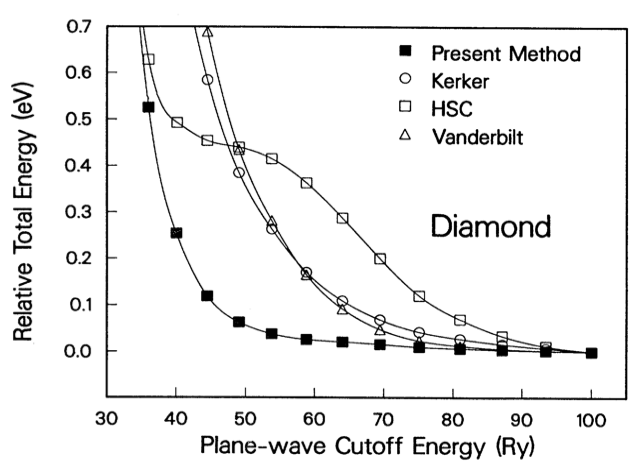
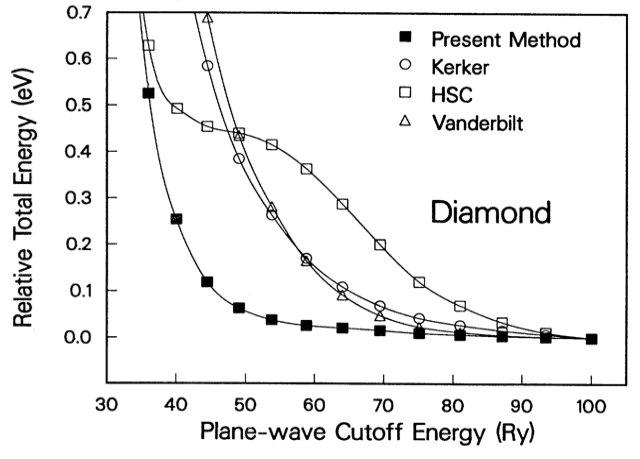
Do Troullier.tex

diff --git a/NCPP/Troullier.tex b/NCPP/Troullier.tex
@@ -26,6 +26,12 @@ and that for K and B pure nonlocal pesudopotential will be
 	\int_{0}^{\infty} \Phi_{l} (r) V_l^\text{NL} (r) J_l (\abs{q' r}) r^2 \, dr.
 \end{multline}
 
+
+
+
+
+
+
 \citeauthor{Troullier:1991ey} improved Kerker's method \cite{Kerker:1980cs} by imposing more
 terms in $p(r)$:
 \begin{equation}
@@ -48,21 +54,21 @@ then the solution of Kohn--Sham equation is uniquely defined by the
 value of $\mathcal{R}(r_0)$ and it's derivate $\mathcal{R}'(r_0)$. Combine
 these $2$ factors, the solution is uniquely defined by its  logarithmic
 derivative
-\begin{align}\label{eq:ld}
-	\frac{ d }{ dr } \ln \mathcal{R}_l (r, \varepsilon) \bigg|_{r = r_0}
-  &= \frac{ 1 }{ \mathcal{R}_l (r, \varepsilon) }
-  \frac{ d }{ dr } \mathcal{R}_l (r, \varepsilon) \bigg|_{r = r_0}, \\
-  \frac{ d }{ dr } \ln R_l (r, \epsilon) \bigg|_{r = r_0}
-  &= \frac{ 1 }{ R_l (r, \epsilon) }
-  \frac{ d }{ dr } R_l (r, \epsilon) \bigg|_{r = r_0}.
-\end{align}
+\begin{equation}\label{eq:ld}
+	\frac{ d }{ dr } \ln \psi_l (r, E) \bigg|_{r = r_0}
+	= \frac{ 1 }{ \psi_l (r, E) }
+	\frac{ d }{ dr } \psi_l (r, E) \bigg|_{r = r_0},
+\end{equation}
+where $\psi = R(r)$, the pseduo-radial-wave-function, or
+$\psi = \mathcal{R}$, the all-electron wave-function.
 
 Since Friedel sum rule,\cite{Topp:1973cp}
-\begin{equation}
-	- 2\pi \bigg[ \big(r \mathcal{R}_l(r) \big) ^ 2 \frac{ d }{ d\varepsilon } \frac{ d }{ dr } \ln \mathcal{R}_l(r) \bigg]_{R_c} = 4\pi \int_{0}^{R_c} r^2 \abs{\mathcal{R}_l(r)}^2 \, dr = \mathcal{Q},
+\begin{equation}\label{eq:friedelsr}
+	- 2\pi \bigg[ \big(r \psi_E(r) \big) ^ 2 \frac{ d }{ dE } \frac{ d }{ dr } \ln \psi_E(r) \bigg]_{ r = R_c} = 4\pi \int_{0}^{R_c} r^2 \abs{\psi_E(r)}^2 \, dr = Q,
 \end{equation}
-and since the charge $Q$ of pesudo-wave-function and $\mathcal{Q}$ of
-wave-function are equal, thus within to a region surrounding $\epsilon_l$,
+and the charge $Q$ of pesudo-wave-function and $\mathcal{Q}$ of
+wave-function are equal when talking about norm-conserving pesudopotential,
+thus within to a region surrounding $\epsilon_l$,
 equation
 \begin{equation}\label{eq:tmcri}
 	\frac{ 1 }{ R_l (r, \epsilon) }
@@ -71,24 +77,16 @@ equation
 	\frac{ 1 }{ \mathcal{R}_l (r, \varepsilon) }
 	\frac{ d }{ dr } \mathcal{R}_l (r, \varepsilon)
 \end{equation}
-is closely satisfied, 
+is closely satisfied,
 \cite{Troullier:1991ey} think this means all-electron
 wave-function and pesudo-wave-function are proportional outside $R_c(l)$.
 Thus, they think $\eqref{eq:tmcri}$ is a good criterion for quickly testing
-the quality of the pesudo-wave-function, i.e., they compare the
-logarithmic derivative of all-electron wave-function and pesudo-wave-function as a function of $\varepsilon$ outside $R_c$.
-
-
-
-
-
-
-
-
+the quality of the pesudopotential, i.e., they compare the
+logarithmic derivative $\eqref{eq:ld}$ of all-electron wave-function and pesudo-wave-function as a function of $\varepsilon$ outside $R_c$.
 
 \begin{figure}[H]
 	\centering
-	\begin{minipage}[b]{.48\linewidth}
+	\begin{minipage}[bt]{.46\linewidth}
 		\centering
 		\includegraphics[width=\linewidth]{tmfig1}
 		\caption{Total energy for diamond per primitive cell vs cutoff energy
@@ -98,7 +96,7 @@ logarithmic derivative of all-electron wave-function and pesudo-wave-function as
 		\label{fig:tm-e:a}
 	\end{minipage}%
 	\hfill
-	\begin{minipage}[b]{.48\linewidth}
+	\begin{minipage}[t]{.46\linewidth}
 		\centering
 		\includegraphics[width=\linewidth]{tmfig8}
 		\caption{Total energy for FCC \ce{Cu} vs the cutoff energy
@@ -112,6 +110,49 @@ A smoother pesudopotential implies a faster convergence in
 total energy, and therefore a more rapid convergence in system properties.
 \citeauthor{Troullier:1991ey} compared $4$ pesudopotential methods'
 results. A large enough cutoff energy is chosen and set as a reference.
-How?
 From Fig. \ref{fig:tm-e:a} and Fig. \ref{fig:tm-e:b} we can see that their
 total energy converges faster than that of HSC, Kerker and Vanderbilt's.
+From Fig. \ref{fig:tm-8:a} and Fig. \ref{fig:tm-8:b} we can also see that
+faster energy convergence do not need a more rapid pesudopotential
+convergence in Fourier space, and \emph{vice versa}.
+An depth of pseudopotential is also not a good convergence indicator,
+since the slower convergence can be from shallower pesudopotential (HSC for \ce{C})
+or from deeper pesudopotential (Kerker for \ce{Cu}).
+For \ce{Cu}, they use KB procedure and set $s$ potential as local component.
+\begin{figure}[H]
+	\centering
+	\begin{minipage}[b]{.7\linewidth}
+		\centering
+		\includegraphics[width=\linewidth]{tmcarbon}
+		\caption{Ionic pesudopotential for \ce{C} using $4$ schemes in both real and Fourier space.
+			The dotted and solid curves correspond to the $s$ and $p$ pseudopotentials, respectively.
+			\cite{Troullier:1991ey}}
+		\label{fig:tm-8:a}
+	\end{minipage}%
+	\vspace{\baselineskip}
+	\begin{minipage}[b]{.7\linewidth}
+		\centering
+		\includegraphics[width=\linewidth]{tmcu}
+		\caption{Ionic pesudopotential for \ce{Cu} using $4$ schemes in both real and Fourier space.
+			The dotted and solid curves correspond to the $s$ and $p$ pseudopotentials, respectively.
+			\cite{Troullier:1991ey}}
+		\label{fig:tm-8:b}
+	\end{minipage}
+\end{figure}
+
+The authors also plotted a figure,
+see Fig. \ref{fig:tmfig6} for reference,
+comparing logarithmic derivatives of pesudo-wave-function and all-electron
+wave-function for \ce{Cu}. We need to supplement that the cutoff radii $R_c(l)$
+chosen in Fig. \ref{fig:tm-8:a} and Fig. \ref{fig:tm-8:b} are all done using this way,
+i.e., the logarithmic energy derivatives of pesudo-wave-functions math that of all-electron wave-functions.
+\begin{figure}[H]
+	\centering
+	\includegraphics[width=0.4\linewidth]{tmfig6.png}
+	\caption{The comparison of logarithmic derivatives of pesudo-wave-function
+		and all-electron wave-function at $r = \SI{2.6}{\bohr}$, they coincide very well. The black points are eigenvalues.
+		The slop is logarithmic energy derivatives shown in $\eqref{eq:friedelsr}$.
+		It shows good transferability and no ghost state of KB pesudopotential.}
+	\label{fig:tmfig6}
+\end{figure}
+The exchange-correlations are both \citeauthor{ceperley1980ground}'s method which parametrized by \citeauthor{perdew1981self}.

diff --git a/review.tex b/review.tex
@@ -1,7 +1,7 @@
 % !TeX document-id = {3edc8dc8-fcc4-4657-9ddf-037fbf395bb7}
 %!TEX TS-program = xelatex
 %!TEX encoding = UTF-8
-%!BIB TS-program = bibtex
+%!BIB TS-program = biber
 %!TEX spellcheck = en_US
 % !TEX outputDirectory = build.noindex
 %%%%%%%%%%%%%%%%%%%%%%%%%%%%%%%%%%%%%%%%%%%%%%%%%%%%%%%
@@ -13,6 +13,7 @@
 \author{Qi Zhang}								% Author
 \date{}										% Date
 
+%\addbibresource{Rest/thebib.bib}
 %%%%%%%%%%%%%%%%%%%%%%%%%%%%%%%%%%%%%%%%%%%%%%%%%%%%%%%
 \begin{document}
 

diff --git a/Preamble/packages.tex b/Preamble/packages.tex
@@ -24,4 +24,3 @@
 }{%
 	\bibstring[\emph]{andothers}%
 }{}{}
-\addbibresource{Rest/thebib.bib}
